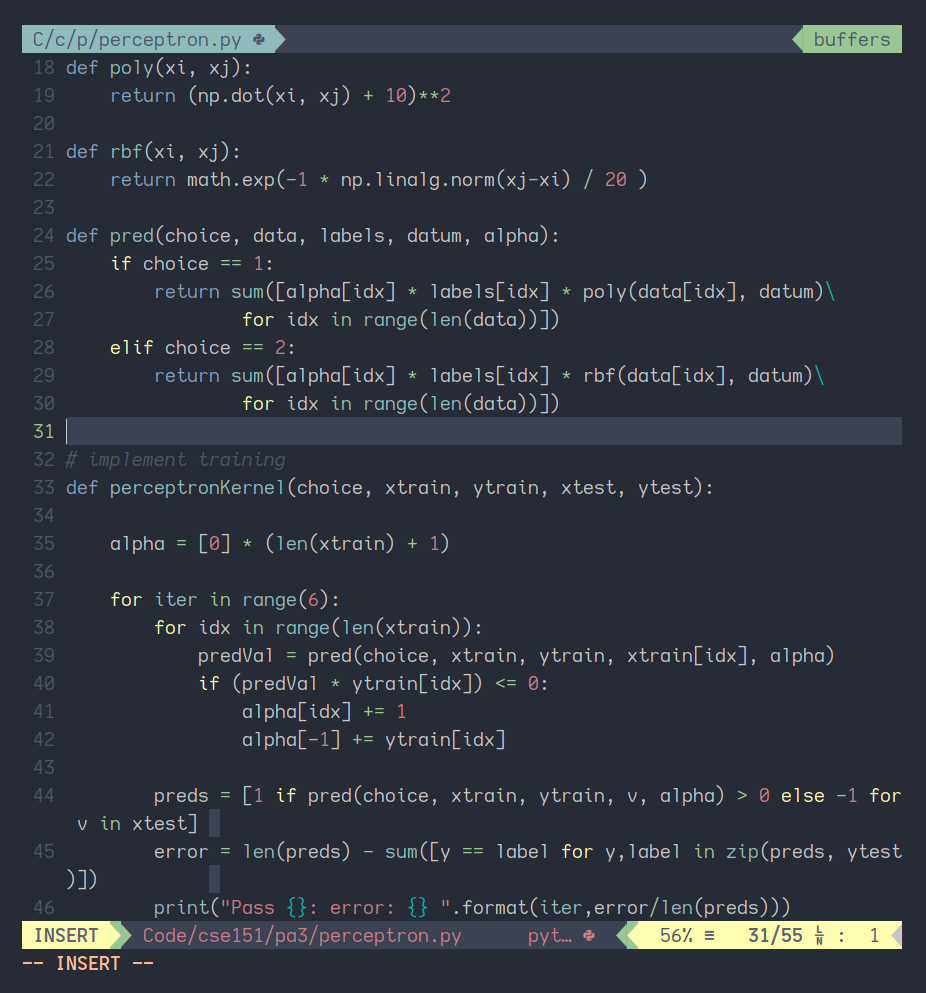
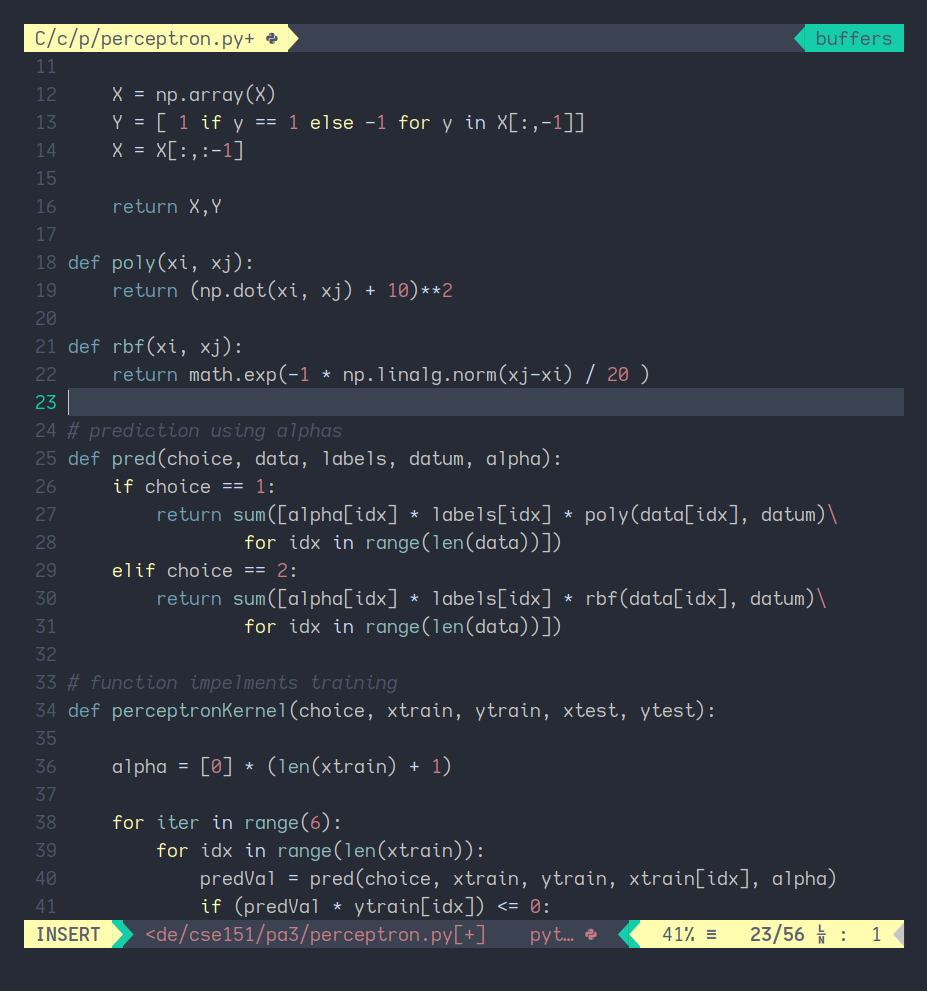
Additional color changes

diff --git a/Readme.md b/Readme.md
@@ -1,25 +1,23 @@
-# Fonce.Vim
+# Skyfall.Vim
 
-A balanced colorscheme that's easy on the eyes, heavily inspired by [Nord][1]. I've tried
-to reduce the contrast while still having enough colors so it strikes a balance between
-readability and going easy on the eyes. Popular plugins will be supported soon
+Skyfall is a balanced colorscheme that's easy on the eyes, inspired by [Nord][1].
+The theme uses low contrast colors and provides good readability while not being harsh on
+the eyes.
 
 # Instructions
 
 The colors of your terminal need to be configured for this theme to work correctly.
-Right now it supports Termite and any terminal that can take colors for Xresources.
-
-
 If you are using Termite copy the contents of the file `terminal-colors/termite` into
 your termite config file. For `.Xresources` copy the contents of `terminal-colors/Xresources`
-into your corresponding file.
+into your corresponding file. For all other terminals(Kitty, Konsole etc) copy the colors
+into your terminal config. I'll try to work on adding support for other terminals.
 
-Install the terminal using your package manager `<Package manager> 'rishikanthc/fonce'`
+Install the terminal using your package manager `<Package manager> 'rishikanthc/skyfall'`
 and set your colorscheme. The airline theme is set automatically.
 ```viml
 set t_Co=16
 syntax enable
-colorscheme fonce
+colorscheme skyfall
 ```
 
 # Screenshot
